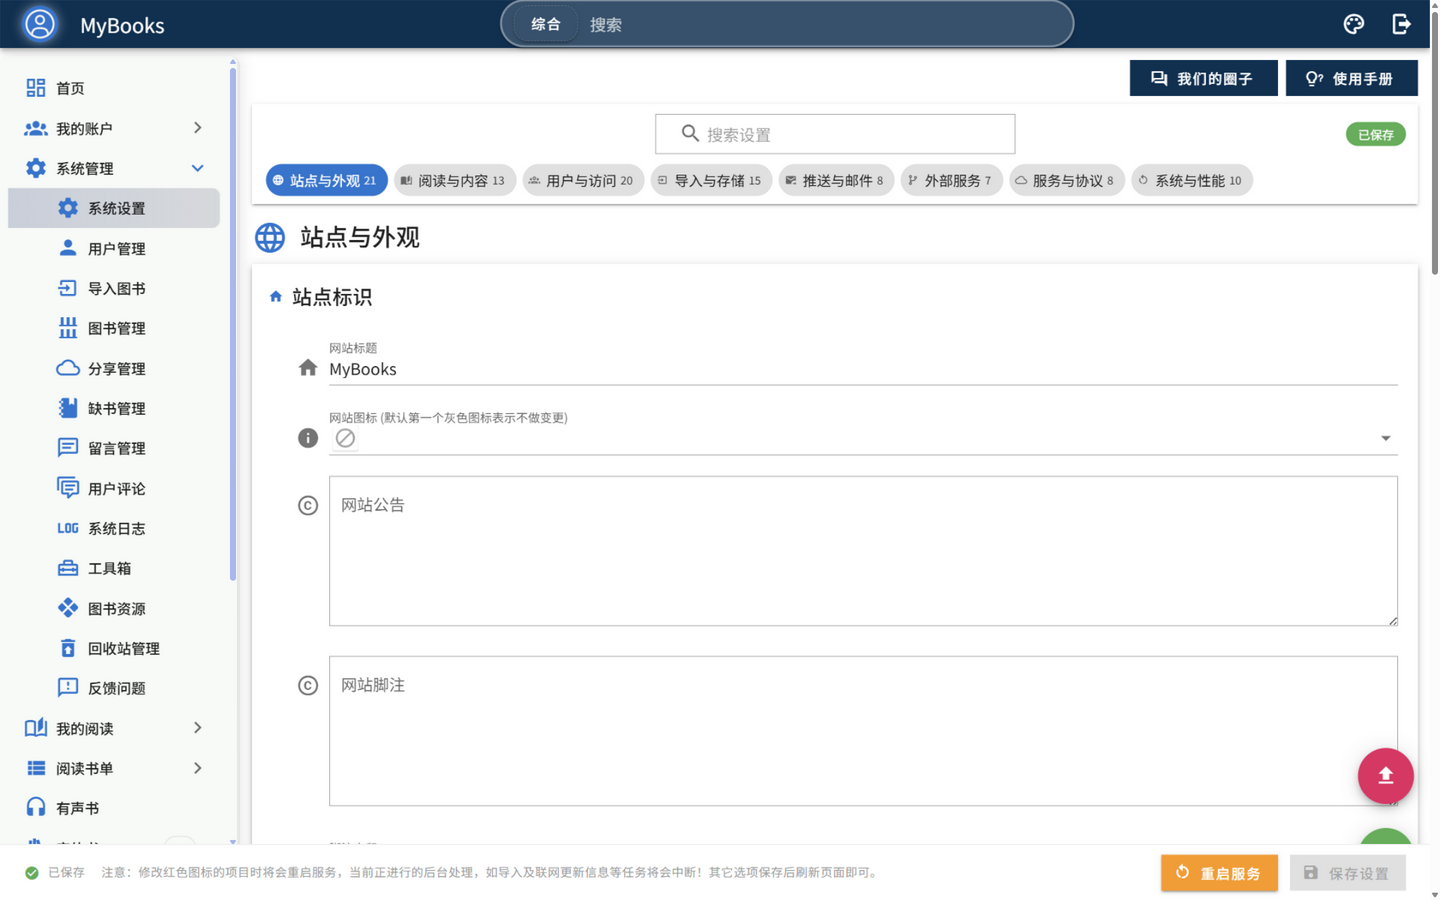
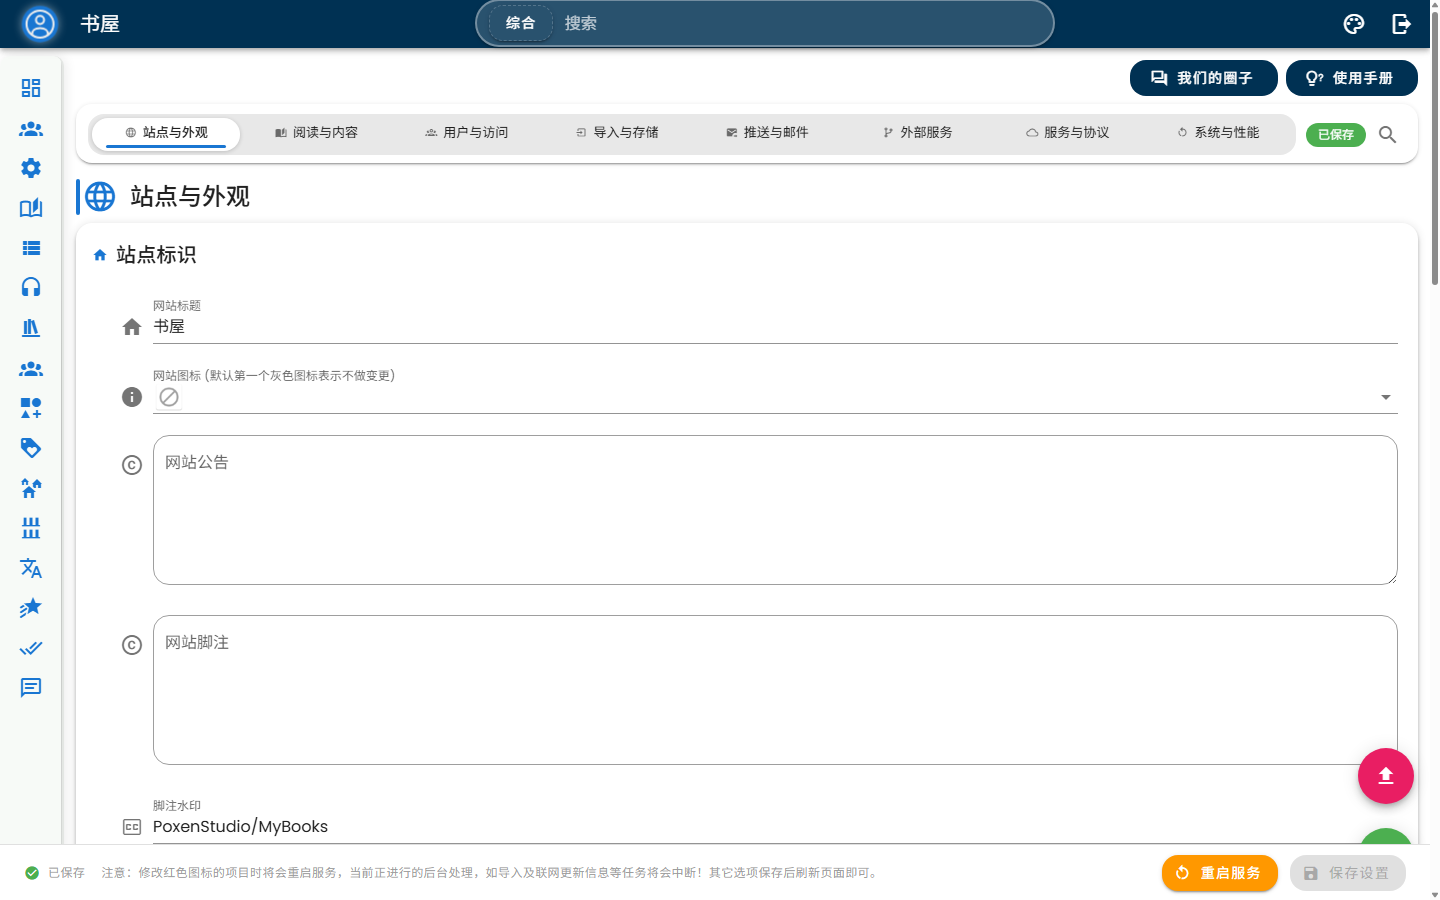
fix(settings): 作者 UI 意见跟进——搜索图标化/分段均分/主色条/去计数/首页双列
- 搜索框移到分组条右侧，收起态只显示放大镜图标，点击展开 260px 输入框并自动聚焦（ESC/×/空失焦收起）

- 分组改 iOS 分段式：灰底容器 + grid 八等分均分整行（窄屏 4×2），激活项白底高亮

- 激活色条 + 组标题竖条跟随站点主色 accent（外观菜单「主色」），圆角跟随 --app-radius；换肤实时跟随

- 分组名后计数去掉（含 dead code 清理）；「首页显示」4 开关 half 两列排布对标侧边栏

- 截图 docs/settings-redesign/01-09 按新 UI 重拍（1440px 桌面 + 390px 移动）

diff --git a/app/src/pages/admin/settings.vue b/app/src/pages/admin/settings.vue
@@ -23,35 +23,58 @@
 
     <v-sheet elevation="2" class="settings-group-bar">
       <div class="settings-group-bar-row d-flex align-center">
-        <v-text-field
-          v-model="searchQ"
-          class="settings-search"
-          dense
-          outlined
-          rounded
-          hide-details
-          prepend-inner-icon="mdi-magnify"
-          :placeholder="$t('settings.search_placeholder')"
-        ></v-text-field>
-        <v-chip v-if="dirtyCount > 0" color="orange" text-color="white" small class="settings-status-chip">
-          {{ $t('settings.unsaved_changes', { n: dirtyCount }) }}
-        </v-chip>
-        <v-chip v-else color="green" text-color="white" small class="settings-status-chip">
-          {{ $t('settings.all_saved') }}
-        </v-chip>
-      </div>
-      <div class="settings-group-chips">
-        <v-chip
-          v-for="g in groups"
-          :key="g.id"
-          :color="activeGroup === g.id && !searchQuery ? 'primary' : ''"
-          :text-color="activeGroup === g.id && !searchQuery ? 'white' : ''"
-          @click="selectGroup(g.id)"
-        >
-          <v-icon x-small left>{{ g.icon }}</v-icon>
-          {{ $t(g.title) }}
-          <span class="settings-group-count ml-1">{{ g.count }}</span>
-        </v-chip>
+        <div class="settings-seg" role="tablist">
+          <button
+            v-for="g in groups"
+            :key="g.id"
+            type="button"
+            role="tab"
+            class="settings-seg-btn"
+            :class="{ 'is-active': activeGroup === g.id && !searchQuery }"
+            :aria-selected="activeGroup === g.id && !searchQuery"
+            @click="selectGroup(g.id)"
+          >
+            <v-icon x-small>{{ g.icon }}</v-icon>
+            {{ $t(g.title) }}
+            <span class="settings-seg-bar" :style="{ background: groupAccent(g.id) }"></span>
+          </button>
+        </div>
+        <div class="settings-bar-right d-flex align-center">
+          <v-chip v-if="dirtyCount > 0" color="orange" text-color="white" small class="settings-status-chip">
+            {{ $t('settings.unsaved_changes', { n: dirtyCount }) }}
+          </v-chip>
+          <v-chip v-else color="green" text-color="white" small class="settings-status-chip">
+            {{ $t('settings.all_saved') }}
+          </v-chip>
+          <v-btn
+            v-if="!searchOpen"
+            icon
+            class="settings-search-btn"
+            :aria-label="$t('settings.search_placeholder')"
+            @click="openSearch"
+          >
+            <v-icon>mdi-magnify</v-icon>
+          </v-btn>
+          <v-expand-x-transition>
+            <v-text-field
+              v-show="searchOpen"
+              ref="searchField"
+              v-model="searchQ"
+              class="settings-search settings-search-expanded"
+              dense
+              outlined
+              rounded
+              hide-details
+              prepend-inner-icon="mdi-magnify"
+              append-icon="mdi-close"
+              :placeholder="$t('settings.search_placeholder')"
+              :aria-label="$t('settings.search_placeholder')"
+              @click:append="closeSearch"
+              @keydown.esc="closeSearch"
+              @blur="onSearchBlur"
+            ></v-text-field>
+          </v-expand-x-transition>
+        </div>
       </div>
     </v-sheet>
 
@@ -84,6 +107,7 @@
     <template v-else>
       <div v-for="g in currentGroups" :key="g.id">
         <div class="d-flex align-center flex-wrap mt-4 mb-2">
+          <span class="settings-group-title-bar" :style="{ background: groupAccent(g.id) }"></span>
           <v-icon large color="primary" class="mr-3">{{ g.icon }}</v-icon>
           <div class="flex-grow-1">
             <div class="text-h5 font-weight-medium">{{ $t(g.title) }}</div>
@@ -111,9 +135,9 @@
               </p>
             </template>
 
-            <div class="pl-6" v-if="s.fields && s.fields.length">
+            <div class="pl-6" v-if="s.fields && s.fields.length" :class="{ 'settings-fields-2col': s.fields.some((x) => x.half) }">
             <template v-for="f in s.fields">
-              <div :key="'w-' + f.key" :id="'f-' + f.key">
+              <div :key="'w-' + f.key" :id="'f-' + f.key" :class="f.half ? 'settings-field-half' : 'settings-field-full'">
               <v-checkbox
                 small
                 hide-details
@@ -998,6 +1022,7 @@ import ReadingRangeDialog from "~/components/ReadingRangeDialog.vue";
 import BookNavEditor, { createCategory } from "~/components/BookNavEditor.vue";
 import ReaderDictEditor from "~/components/ReaderDictEditor.vue";
 import { languageOptions } from "~/utils/languageCodes";
+import { isHexColor, DEFAULT_ACCENT } from "~/utils/appearance";
 
 const LITE_GROUPS = [
   "LITE_GROUP_LISTING",
@@ -1035,6 +1060,10 @@ const SPECIAL_BLOCKS = [
   { key: "CACHE_MAX_MB", label: "settings.thumb_cache_size", icon: "mdi-image-multiple-outline", gid: "ops", sid: "ops-perf" },
   { key: "TRASH", label: "settings.trash_clear_button", icon: "mdi-delete", gid: "ops", sid: "ops-trash", al: ["回收站", "磁盘", "清理"] },
 ];
+
+// 激活分组下色条 + 组标题竖条：默认跟随站点主色 accent（外观菜单里的「主色」），
+// 换主色即时跟随
+// （uiverse 分段 pill 的形态借鉴，样式为本仓 clean-room 实现）
 
 // 用户口语搜索词（中文为主）→ 设置项 key
 const SEARCH_ALIASES = {
@@ -1309,10 +1338,10 @@ export default {
                 ],
               },
               { icon: "mdi-eye-outline", key: "homepage-display-heading", label: "settings.homepage_display", type: "subtitle" },
-              { icon: "mdi-chart-line", key: "ENABLE_HOMEPAGE_READING_STATS", label: "settings.enable_homepage_reading_stats", type: "checkbox" },
-              { icon: "mdi-book-open-page-variant-outline", key: "ENABLE_HOMEPAGE_READING_BOOKS", label: "settings.enable_homepage_reading_books", type: "checkbox" },
-              { icon: "mdi-format-list-bulleted-square", key: "ENABLE_HOMEPAGE_BOOKLISTS", label: "settings.enable_homepage_booklists", type: "checkbox" },
-              { icon: "mdi-thumb-up-outline", key: "ENABLE_BOOK_RECOMMEND_TO_OTHERS", label: "settings.enable_book_recommend_to_others", type: "checkbox" },
+              { icon: "mdi-chart-line", key: "ENABLE_HOMEPAGE_READING_STATS", label: "settings.enable_homepage_reading_stats", type: "checkbox", half: true },
+              { icon: "mdi-book-open-page-variant-outline", key: "ENABLE_HOMEPAGE_READING_BOOKS", label: "settings.enable_homepage_reading_books", type: "checkbox", half: true },
+              { icon: "mdi-format-list-bulleted-square", key: "ENABLE_HOMEPAGE_BOOKLISTS", label: "settings.enable_homepage_booklists", type: "checkbox", half: true },
+              { icon: "mdi-thumb-up-outline", key: "ENABLE_BOOK_RECOMMEND_TO_OTHERS", label: "settings.enable_book_recommend_to_others", type: "checkbox", half: true },
             ],
           },
           {
@@ -1947,17 +1976,6 @@ export default {
       },
     ];
 
-    this.groups.forEach((g) => {
-      g.count = 0;
-      g.sections.forEach((s) => {
-        s.count =
-          (s.fields || []).length +
-          (s.groups || []).reduce((n, x) => n + 1 + (x.fields || []).length, 0) +
-          (s.special ? 1 : 0);
-        g.count += s.count;
-      });
-    });
-
     this.$backend("/admin/settings").then((rsp) => {
       this.sns_items = rsp.sns;
       this.settings = rsp.settings;
@@ -2042,6 +2060,8 @@ export default {
     groups: [],
     activeGroup: "site",
     searchQ: "",
+    // 搜索框是否展开（收起态只显示放大镜图标，点开才出现输入框）
+    searchOpen: false,
     // 搜索跳转的视图层展开状态（key = 嵌套开关 grp.key），不触碰真实设置值
     forceOpen: {},
     bookNavList: [],
@@ -2351,13 +2371,36 @@ export default {
         e.returnValue = "";
       }
     },
+    // 入参保留分组 id（调用侧 groupAccent(g.id) 不变），色值当前统一取站点主色 accent
+    groupAccent(_id) {
+      const ap = this.$store && this.$store.state && this.$store.state.appearance;
+      const a = ap && ap.accent;
+      return isHexColor(a) ? a.toLowerCase() : DEFAULT_ACCENT;
+    },
+    openSearch() {
+      this.searchOpen = true;
+      this.$nextTick(() => {
+        const f = this.$refs.searchField;
+        if (f && f.focus) f.focus();
+      });
+    },
+    closeSearch() {
+      this.searchQ = "";
+      this.searchOpen = false;
+    },
+    onSearchBlur() {
+      // 失焦且输入为空时自动收起；有输入时保持展开，方便点选搜索结果
+      if (!this.searchQuery) this.searchOpen = false;
+    },
     selectGroup(id) {
       this.searchQ = "";
+      this.searchOpen = false;
       this.activeGroup = id;
       if (process.client) window.scrollTo({ top: 0 });
     },
     jumpTo(r) {
       this.searchQ = "";
+      this.searchOpen = false;
       this.activeGroup = r.gid;
       if (r.parentKey) {
         // 只做视图层展开：写真实 settings 会静默开启 INVITE_MODE 等父开关并计入未保存数
@@ -2733,56 +2776,148 @@ export default {
   margin-bottom: 12px;
 }
 .settings-group-bar-row {
-  position: relative;
+  gap: 10px;
+  flex-wrap: wrap;
 }
-.settings-group-bar .settings-search {
-  flex: 0 1 360px;
-  margin: 0 auto;
+/* iOS 分段式分组条（形态借鉴 uiverse Zanina 分段 tab，样式为本仓 clean-room 实现）：
+   灰底容器 + 激活项高亮 + 品牌主色条；8 个按钮均分整行，圆角跟随 --app-radius
+  （与右上角外观菜单的按钮圆角同一变量） */
+.settings-seg {
+  display: grid;
+  grid-template-columns: repeat(8, minmax(0, 1fr));
+  flex: 1 1 auto;
+  gap: 2px;
+  min-width: 0;
+  background: #e8e8e8;
+  border-radius: var(--app-radius, 4px);
+  padding: 4px;
+}
+.settings-seg-btn {
+  position: relative;
+  display: inline-flex;
+  align-items: center;
+  justify-content: center;
+  min-width: 0;
+  overflow: hidden;
+  text-overflow: ellipsis;
+  gap: 4px;
+  border: 0;
+  background: transparent;
+  border-radius: var(--app-radius, 4px);
+  padding: 6px 8px 9px;
+  font-size: 13px;
+  line-height: 1.4;
+  color: inherit;
+  cursor: pointer;
+  white-space: nowrap;
+}
+.settings-seg-btn:hover {
+  background: rgba(0, 0, 0, 0.06);
+}
+.settings-seg-btn.is-active {
+  background: #fff;
+  box-shadow: 0 1px 4px rgba(0, 0, 0, 0.18);
+  font-weight: 500;
+}
+.settings-seg-btn:focus-visible {
+  outline: 2px solid #1976d2;
+  outline-offset: 1px;
+}
+.settings-seg-btn .v-icon {
+  margin-right: 2px;
+}
+/* 激活项下方品牌主色条（与组标题竖条同色呼应） */
+.settings-seg-bar {
+  position: absolute;
+  left: 14px;
+  right: 14px;
+  bottom: 3px;
+  height: 3px;
+  border-radius: 2px;
+  opacity: 0;
+}
+.settings-seg-btn.is-active .settings-seg-bar {
+  opacity: 1;
+}
+/* 组标题左侧竖条，与 pill 色条同色 */
+.settings-group-title-bar {
+  width: 4px;
+  align-self: stretch;
+  min-height: 36px;
+  border-radius: 2px;
+  margin-right: 2px;
+}
+.theme--dark .settings-seg {
+  background: #2b2b2b;
+}
+.theme--dark .settings-seg-btn:hover {
+  background: rgba(255, 255, 255, 0.08);
+}
+.theme--dark .settings-seg-btn.is-active {
+  background: #424242;
+}
+/* 右侧：状态 chip + 搜索图标/展开框 */
+.settings-bar-right {
+  display: flex;
+  align-items: center;
+  gap: 4px;
+  margin-left: auto;
+  flex: 0 0 auto;
+}
+.settings-status-chip {
+  position: static;
+  transform: none;
+  flex: 0 0 auto;
+}
+.settings-search-btn {
+  flex: 0 0 auto;
+}
+.settings-group-bar .settings-search-expanded {
+  flex: 0 1 260px;
+  margin: 0;
 }
 .settings-search .v-input__slot,
 .settings-search fieldset {
   border-radius: 9999px !important;
 }
-.settings-status-chip {
-  position: absolute;
-  right: 0;
-  top: 50%;
-  transform: translateY(-50%);
-}
 @media (max-width: 599.98px) {
-  /* 窄屏：状态 chip 回归常规布局，搜索框占满剩余宽度，避免绝对定位遮挡输入框 */
-  .settings-status-chip {
-    position: static;
-    transform: none;
-    flex: 0 0 auto;
-    margin-left: 10px;
+  /* 窄屏：分段条独占一行，4 列 × 2 行仍保持均分；右侧控件另起一行靠右；
+     展开的搜索框占满整行 */
+  .settings-seg {
+    flex: 1 1 100%;
+    grid-template-columns: repeat(4, minmax(0, 1fr));
   }
-  .settings-group-bar .settings-search {
-    flex: 1 1 auto;
-    margin: 0;
+  .settings-bar-right {
+    flex: 1 1 100%;
+    margin-left: 0;
+    justify-content: flex-end;
+  }
+  .settings-group-bar .settings-search-expanded {
+    flex: 1 1 100%;
   }
   /* savebar 换行变高后加厚底部留白，避免遮挡最后几个字段 */
   .settings-page-root {
     padding-bottom: 128px;
   }
 }
-.settings-group-bar .v-chip {
-  border-radius: 9999px !important;
-}
-.settings-group-chips {
-  display: flex;
-  align-items: center;
-  flex-wrap: wrap;
-  gap: 6px;
-  padding: 10px 2px 0;
-}
-.settings-group-count {
-  font-size: 11px;
-  opacity: 0.85;
-}
 .settings-result {
   border-bottom: 1px solid #eee;
   cursor: pointer;
+}
+/* 含 half 字段的小节：half 项两列排布（对标 checkbox_list 的 sm=6），其余项独占整行 */
+.settings-fields-2col {
+  display: grid;
+  grid-template-columns: 1fr 1fr;
+  column-gap: 16px;
+  align-items: start;
+}
+.settings-fields-2col > div:not(.settings-field-half) {
+  grid-column: 1 / -1;
+}
+@media (max-width: 599.98px) {
+  .settings-fields-2col {
+    grid-template-columns: 1fr;
+  }
 }
 .settings-result:hover,
 .settings-result:focus {
